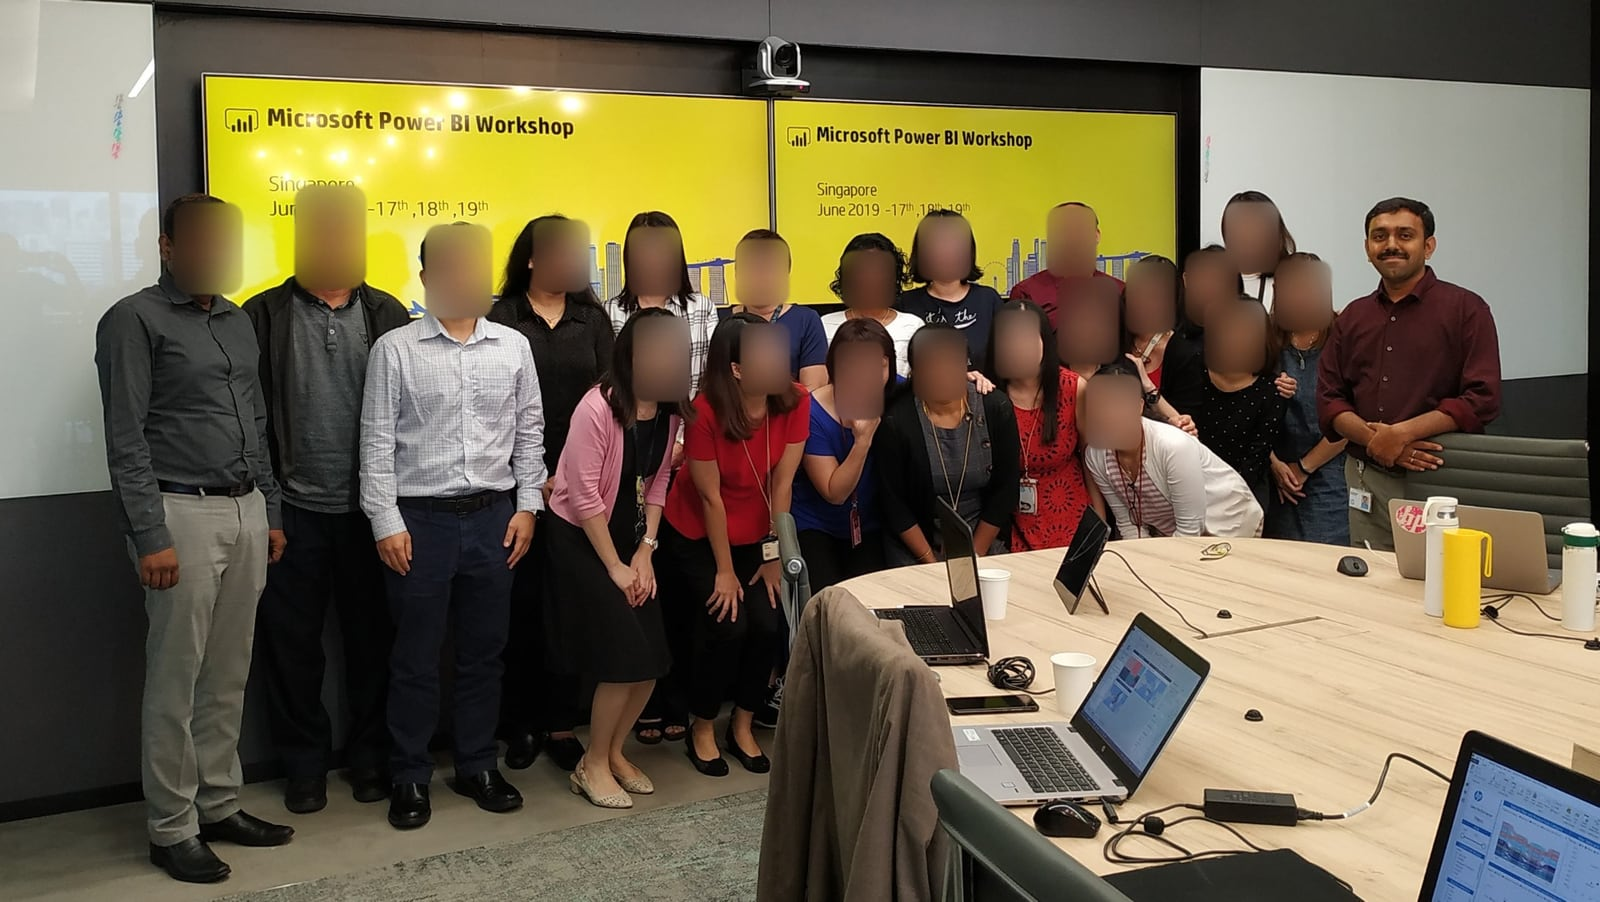
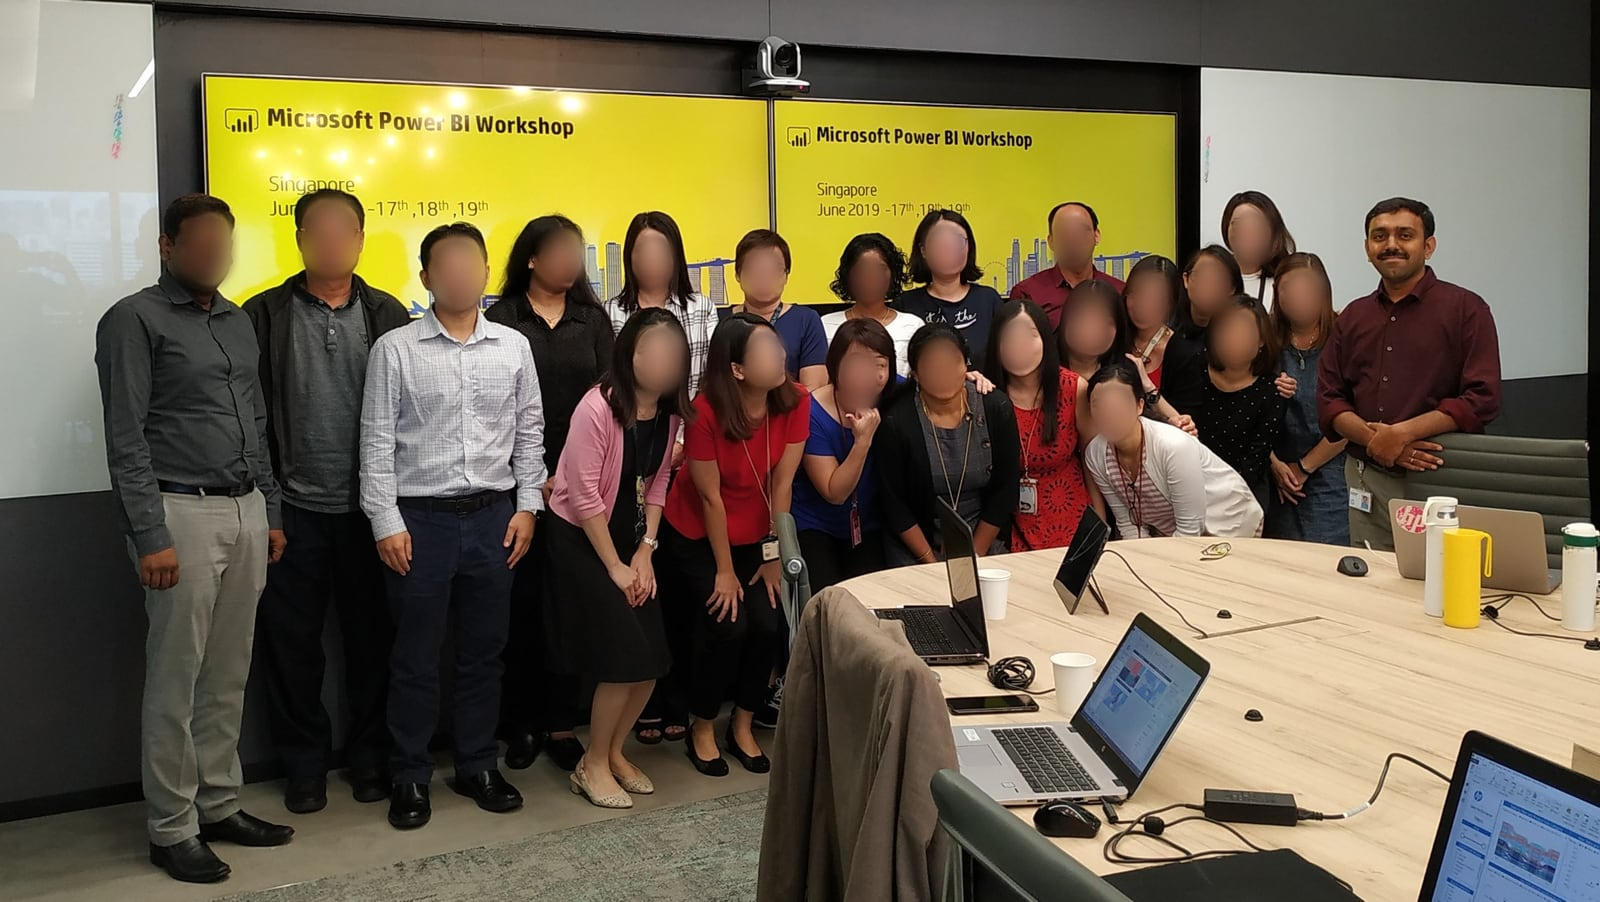
Natural face-only blur on Singapore and Malaysia photos

Changed region(s): [[0.0938, 0.1863, 0.8438, 0.4967]]

diff --git a/index.html b/index.html
@@ -28,13 +28,13 @@
 <link rel="preconnect" href="https://fonts.gstatic.com" crossorigin>
 <link href="https://fonts.googleapis.com/css2?family=Hanken+Grotesk:wght@400;500;600;700;800&display=swap" rel="stylesheet">
 
-<link rel="stylesheet" href="assets/css/variables.css?v=20261107a">
-<link rel="stylesheet" href="assets/css/base.css?v=20261107a">
-<link rel="stylesheet" href="assets/css/components.css?v=20261107a">
-<link rel="stylesheet" href="assets/css/sections.css?v=20261107a">
-<link rel="stylesheet" href="assets/css/animations.css?v=20261107a">
-<link rel="stylesheet" href="assets/css/responsive.css?v=20261107a">
-<link rel="stylesheet" href="assets/css/brand.css?v=20261107a">
+<link rel="stylesheet" href="assets/css/variables.css?v=20261107b">
+<link rel="stylesheet" href="assets/css/base.css?v=20261107b">
+<link rel="stylesheet" href="assets/css/components.css?v=20261107b">
+<link rel="stylesheet" href="assets/css/sections.css?v=20261107b">
+<link rel="stylesheet" href="assets/css/animations.css?v=20261107b">
+<link rel="stylesheet" href="assets/css/responsive.css?v=20261107b">
+<link rel="stylesheet" href="assets/css/brand.css?v=20261107b">
 <script type="application/ld+json">
 {
   "@context": "https://schema.org",
@@ -448,6 +448,6 @@
 
 <noscript><p style="text-align:center;padding:16px">This site needs JavaScript to show my profile.</p></noscript>
 <script src="https://cdn.jsdelivr.net/npm/chart.js@4.4.4/dist/chart.umd.min.js" defer></script>
-<script type="module" src="assets/js/main.js?v=20261107a"></script>
+<script type="module" src="assets/js/main.js?v=20261107b"></script>
 </body>
 </html>

diff --git a/assets/js/main.js b/assets/js/main.js
@@ -1,11 +1,11 @@
-import { initTheme } from "./theme.js?v=20261107a";
-import { initNav } from "./nav.js?v=20261107a";
-import { initTabs } from "./tabs.js?v=20261107a";
-import { renderAll } from "./render.js?v=20261107a";
-import { initReveal } from "./reveal.js?v=20261107a";
-import { initCounters } from "./counters.js?v=20261107a";
-import { initCharts } from "./charts.js?v=20261107a";
-import { initLens } from "./lens.js?v=20261107a";
+import { initTheme } from "./theme.js?v=20261107b";
+import { initNav } from "./nav.js?v=20261107b";
+import { initTabs } from "./tabs.js?v=20261107b";
+import { renderAll } from "./render.js?v=20261107b";
+import { initReveal } from "./reveal.js?v=20261107b";
+import { initCounters } from "./counters.js?v=20261107b";
+import { initCharts } from "./charts.js?v=20261107b";
+import { initLens } from "./lens.js?v=20261107b";
 
 function hideLoadingVeil() {
   const veil = document.getElementById("loadingVeil");

diff --git a/assets/js/render.js b/assets/js/render.js
@@ -2,8 +2,8 @@ import {
   heroStats, philosophy, journey, education, strategyPhases, competencies,
   aiGenai, governance, cloudPlatforms, outcomes, programs, speaking, speakingAvailability,
   certifications, insights, awards, dashboardKpis,
-} from "./data.js?v=20261107a";
-import { openLightbox } from "./lightbox.js?v=20261107a";
+} from "./data.js?v=20261107b";
+import { openLightbox } from "./lightbox.js?v=20261107b";
 
 const $ = (id) => document.getElementById(id);
 

diff --git a/assets/js/lens.js b/assets/js/lens.js
@@ -1,5 +1,5 @@
-import { lenses } from "./data.js?v=20261107a";
-import { animateCounter } from "./counters.js?v=20261107a";
+import { lenses } from "./data.js?v=20261107b";
+import { animateCounter } from "./counters.js?v=20261107b";
 
 const KEY = "profile-lens";
 const esc = (s) => String(s).replace(/[&<>"']/g, (c) => ({ "&": "&amp;", "<": "&lt;", ">": "&gt;", '"': "&quot;", "'": "&#39;" }[c]));

diff --git a/assets/js/charts.js b/assets/js/charts.js
@@ -1,4 +1,4 @@
-import { dashboardCharts } from "./data.js?v=20261107a";
+import { dashboardCharts } from "./data.js?v=20261107b";
 
 function waitForChart(retries = 20) {
   return new Promise((resolve, reject) => {
